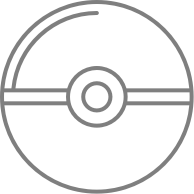
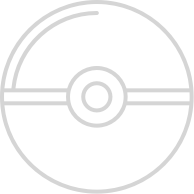
Colour adjustments (#6)

Changed region(s): [[0.0, 0.0, 1.0, 1.0], [0.4021, 0.4021, 0.5876, 0.5876]]

diff --git a/components/molecules/typebox.js b/components/molecules/typebox.js
@@ -5,32 +5,32 @@ function TypeBox({type, optText}) {
     // console.log(type, optText)
     switch(type) {
         case "normal":
-            return ( optText === undefined ? <PokemonTypeBox type={type} backgroundColor={"bg-zinc-300"} />
-                : <PokemonAbilityBox type={type} optText={optText} backgroundColor={"bg-zinc-300"} />)
+            return ( optText === undefined ? <PokemonTypeBox type={type} backgroundColor={"bg-slate-400"} />
+                : <PokemonAbilityBox type={type} optText={optText} backgroundColor={"bg-slate-400"} />)
         case "fire":
             return ( optText === undefined ? <PokemonTypeBox type={type} backgroundColor={"bg-orange-500"} />
                 : <PokemonAbilityBox type={type} optText={optText} backgroundColor={"bg-orange-500"} />)
         case "water":
-            return ( optText === undefined ? <PokemonTypeBox type={type} backgroundColor={"bg-blue-500"} />
-                : <PokemonAbilityBox type={type} optText={optText} backgroundColor={"bg-blue-500"} />)
+            return ( optText === undefined ? <PokemonTypeBox type={type} backgroundColor={"bg-blue-600"} />
+                : <PokemonAbilityBox type={type} optText={optText} backgroundColor={"bg-blue-600"} />)
         case "grass":
-            return ( optText === undefined ? <PokemonTypeBox type={type} backgroundColor={"bg-green-400"} />
-                : <PokemonAbilityBox type={type} optText={optText} backgroundColor={"bg-green-400"} />)
+            return ( optText === undefined ? <PokemonTypeBox type={type} backgroundColor={"bg-green-500"} />
+                : <PokemonAbilityBox type={type} optText={optText} backgroundColor={"bg-green-500"} />)
         case "electric":
-            return ( optText === undefined ? <PokemonTypeBox type={type} backgroundColor={"bg-amber-200"} />
-                : <PokemonAbilityBox type={type} optText={optText} backgroundColor={"bg-amber-200"} />)
+            return ( optText === undefined ? <PokemonTypeBox type={type} backgroundColor={"bg-amber-400"} />
+                : <PokemonAbilityBox type={type} optText={optText} backgroundColor={"bg-amber-400"} />)
         case "ice":
-            return ( optText === undefined ? <PokemonTypeBox type={type} backgroundColor={"bg-sky-100"} />
-                : <PokemonAbilityBox type={type} optText={optText} backgroundColor={"bg-sky-100"} />)
+            return ( optText === undefined ? <PokemonTypeBox type={type} backgroundColor={"bg-cyan-300"} />
+                : <PokemonAbilityBox type={type} optText={optText} backgroundColor={"bg-cyan-300"} />)
         case "fighting":
             return ( optText === undefined ? <PokemonTypeBox type={type} backgroundColor={"bg-red-600"} />
                 : <PokemonAbilityBox type={type} optText={optText} backgroundColor={"bg-red-600"} />)
         case "poison":
-            return ( optText === undefined ? <PokemonTypeBox type={type} backgroundColor={"bg-purple-700"} />
-                : <PokemonAbilityBox type={type} optText={optText} backgroundColor={"bg-purple-700"} />)
+            return ( optText === undefined ? <PokemonTypeBox type={type} backgroundColor={"bg-fuchsia-700"} />
+                : <PokemonAbilityBox type={type} optText={optText} backgroundColor={"bg-fuchsia-700"} />)
         case "ground":
-            return ( optText === undefined ? <PokemonTypeBox type={type} backgroundColor={"bg-orange-100"} />
-                : <PokemonAbilityBox type={type} optText={optText} backgroundColor={"bg-orange-100"} />)
+            return ( optText === undefined ? <PokemonTypeBox type={type} backgroundColor={"bg-amber-600"} />
+                : <PokemonAbilityBox type={type} optText={optText} backgroundColor={"bg-amber-600"} />)
         case "flying":
             return ( optText === undefined ? <PokemonTypeBox type={type} backgroundColor={"bg-blue-200"} />
                 : <PokemonAbilityBox type={type} optText={optText} backgroundColor={"bg-blue-200"} />)
@@ -38,26 +38,26 @@ function TypeBox({type, optText}) {
             return ( optText === undefined ? <PokemonTypeBox type={type} backgroundColor={"bg-pink-500"} />
                 : <PokemonAbilityBox type={type} optText={optText} backgroundColor={"bg-pink-500"} />)
         case "bug":
-            return ( optText === undefined ? <PokemonTypeBox type={type} backgroundColor={"bg-lime-400"} />
-                : <PokemonAbilityBox type={type} optText={optText} backgroundColor={"bg-lime-400"} />)
+            return ( optText === undefined ? <PokemonTypeBox type={type} backgroundColor={"bg-lime-500"} />
+                : <PokemonAbilityBox type={type} optText={optText} backgroundColor={"bg-lime-500"} />)
         case "rock":
-            return ( optText === undefined ? <PokemonTypeBox type={type} backgroundColor={"bg-orange-600"} />
-                : <PokemonAbilityBox type={type} optText={optText} backgroundColor={"bg-orange-600"} />)
+            return ( optText === undefined ? <PokemonTypeBox type={type} backgroundColor={"bg-amber-700"} />
+                : <PokemonAbilityBox type={type} optText={optText} backgroundColor={"bg-amber-700"} />)
         case "ghost":
-            return ( optText === undefined ? <PokemonTypeBox type={type} backgroundColor={"bg-purple-800"} />
-                : <PokemonAbilityBox type={type} optText={optText} backgroundColor={"bg-purple-800"} />)
+            return ( optText === undefined ? <PokemonTypeBox type={type} backgroundColor={"bg-purple-700"} />
+                : <PokemonAbilityBox type={type} optText={optText} backgroundColor={"bg-purple-700"} />)
         case "dark":
-            return ( optText === undefined ? <PokemonTypeBox type={type} backgroundColor={"bg-stone-500"} />
-                : <PokemonAbilityBox type={type} optText={optText} backgroundColor={"bg-stone-500"} />)
+            return ( optText === undefined ? <PokemonTypeBox type={type} backgroundColor={"bg-neutral-700"} />
+                : <PokemonAbilityBox type={type} optText={optText} backgroundColor={"bg-neutral-700"} />)
         case "dragon":
-            return ( optText === undefined ? <PokemonTypeBox type={type} backgroundColor={"bg-purple-600"} />
-                : <PokemonAbilityBox type={type} optText={optText} backgroundColor={"bg-purple-600"} />)
+            return ( optText === undefined ? <PokemonTypeBox type={type} backgroundColor={"bg-violet-600"} />
+                : <PokemonAbilityBox type={type} optText={optText} backgroundColor={"bg-violet-600"} />)
         case "steel":
-            return ( optText === undefined ? <PokemonTypeBox type={type} backgroundColor={"bg-zinc-300"} />
-                : <PokemonAbilityBox type={type} optText={optText} backgroundColor={"bg-zinc-300"} />)
+            return ( optText === undefined ? <PokemonTypeBox type={type} backgroundColor={"bg-zinc-400"} />
+                : <PokemonAbilityBox type={type} optText={optText} backgroundColor={"bg-zinc-400"} />)
         case "fairy":
-            return ( optText === undefined ? <PokemonTypeBox type={type} backgroundColor={"bg-pink-300"} />
-                : <PokemonAbilityBox type={type} optText={optText} backgroundColor={"bg-pink-300"} />)
+            return ( optText === undefined ? <PokemonTypeBox type={type} backgroundColor={"bg-pink-400"} />
+                : <PokemonAbilityBox type={type} optText={optText} backgroundColor={"bg-pink-400"} />)
     }
 }
 

diff --git a/components/organisms/pokemons.js b/components/organisms/pokemons.js
@@ -5,6 +5,7 @@ import TypeBox from "../molecules/typebox";
 import PokemonModal from "../molecules/pokemonmodal";
 import React from "react";
 import Image from 'next/image';
+import getPokemonBackground from "../atoms/pokemonBackground";
 
 // pokemonTypes is in the form: 
 //     object : {
@@ -36,47 +37,6 @@ function getTypeBoxes(typesArray) {
     )
 }
 
-function getTypeBackground(pokemonMainType) {
-    switch(pokemonMainType) {
-        case "normal":
-            return "bg-zinc-400";
-        case "fire":
-            return "bg-orange-500";
-        case "water":
-            return "bg-blue-600";
-        case "grass":
-            return "bg-green-500";
-        case "electric":
-            return "bg-yellow-400";
-        case "ice":
-            return "bg-cyan-400";
-        case "fighting":
-            return "bg-red-500";
-        case "poison":
-            return "bg-purple-500";
-        case "ground":
-            return "bg-orange-400";
-        case "flying":
-            return "bg-violet-400";
-        case "psychic":
-            return "bg-pink-500";
-        case "bug":
-            return "bg-lime-500";
-        case "rock":
-            return "bg-orange-500";
-        case "ghost":
-            return "bg-purple-600";
-        case "dark":
-            return "bg-gray-700";
-        case "dragon":
-            return "bg-violet-600";
-        case "steel":
-            return "bg-zinc-600";
-        case "fairy":
-            return "bg-pink-400";
-    }
-}
-
 const DisplayPokemonGrid = (pokemonArray) => {
     const [popupState, setPopupState] = useState(false);
     const [pokemonData, setPokemonData] = useState(null);
@@ -100,7 +60,7 @@ const DisplayPokemonGrid = (pokemonArray) => {
                 return (
                     <button key={pokemon.id}
                     disabled={popupState}
-                    className={"text-white font-bold rounded-2xl p-4 flex w-full h-min pokemon-card hover:brightness-110 " + getTypeBackground(pokemonTypes[0])}
+                    className={"text-white font-bold rounded-2xl p-4 flex w-full h-min pokemon-card hover:brightness-110 " + getPokemonBackground(pokemonTypes[0])}
                     onClick={() => {setPopupState(true), setPokemonData(pokemon)}}>
                         {/* <div className="m-1 grid shrink-0 grow flex-auto w-auto"> */}
                             <div className="shrink-0 grow flex justify-start flex-col w-24 h-min">

diff --git a/components/molecules/pokemonmodal.js b/components/molecules/pokemonmodal.js
@@ -2,6 +2,7 @@ import React from "react";
 import TypeBox from "./typebox";
 import StatMeter from "../atoms/pokemonStatMeter";
 import Image from 'next/image';
+import getPokemonBackground from "../atoms/pokemonBackground";
 
 // pokemonTypes is in the form: 
 //     object : {
@@ -70,9 +71,11 @@ function PokemonModal({onClose, visible, pokemon}) {
     // console.log(onClose, visible, pokemon)
     let pokemonTypes = getTypes(pokemon.types)
     let pokemonAbilities = getAbilities(pokemon)
+    
     const handleOnClose = (event) => {
         if (event.target.id === "background")
         {
+            document.body.style.overflow = 'auto';
             onClose();
         }
     }
@@ -81,11 +84,13 @@ function PokemonModal({onClose, visible, pokemon}) {
         return null;
     }
 
+    document.body.style.overflow = 'hidden';
+
     return (
         <div id="background" onClick={handleOnClose} className="grow flex absolute justify-center items-center inset-0 bg-black bg-opacity-50 backdrop-blur-sm h-full w-full z-10">
 
             <div className="flex grow shrink-0 pokemon-details">
-                <div className="w-1/2 bg-blue-300 flex items-center flex-col py-10 px-12 shrink-0 min-w-44 grow rounded-l-3xl">
+                <div className={`w-1/2  flex items-center flex-col py-10 px-12 shrink-0 min-w-44 grow rounded-l-3xl ${getPokemonBackground(pokemonTypes[0])}`}>
                     <p className="text-white text-center text-shadow-black capitalize text-2xl font-extrabold">{pokemon.name}</p>
                     <Image src={pokemon.sprites.front_default} width={96} height={96} className="w-24 h-24 flex-none shrink-0" />
                     <p className="text-white text-center text-shadow-black mb-2 font-bold">Type</p>

diff --git a/components/atoms/pokemonBackground.js b/components/atoms/pokemonBackground.js
@@ -1,0 +1,42 @@
+function getPokemonBackground(pokemonMainType) {
+    switch(pokemonMainType) {
+        case "normal":
+            return "bg-slate-300";
+        case "fire":
+            return "bg-orange-400";
+        case "water":
+            return "bg-blue-400";
+        case "grass":
+            return "bg-green-400";
+        case "electric":
+            return "bg-yellow-300";
+        case "ice":
+            return "bg-sky-200";
+        case "fighting":
+            return "bg-red-400";
+        case "poison":
+            return "bg-fuchsia-400";
+        case "ground":
+            return "bg-amber-400";
+        case "flying":
+            return "bg-violet-400";
+        case "psychic":
+            return "bg-pink-400";
+        case "bug":
+            return "bg-lime-400";
+        case "rock":
+            return "bg-amber-500";
+        case "ghost":
+            return "bg-purple-400";
+        case "dark":
+            return "bg-neutral-500";
+        case "dragon":
+            return "bg-violet-400";
+        case "steel":
+            return "bg-zinc-300";
+        case "fairy":
+            return "bg-pink-300";
+    }
+}
+
+export default getPokemonBackground;

diff --git a/components/atoms/pokemonAbilityBox.js b/components/atoms/pokemonAbilityBox.js
@@ -1,7 +1,7 @@
 function PokemonAbilityBox({type, optText, backgroundColor}) {
     return (
         <div className={"rounded-md shadow-md grow flex w-auto flex-initial p-1 " + backgroundColor}>
-            <p className="text-white text-sm text-center self-center grow shrink-0 w-max text-shadow-black font-mono capitalize">{optText ? optText : type}</p>
+            <p className="text-white text-sm text-center self-center grow shrink-0 w-max text-shadow-grey font-mono capitalize">{optText ? optText : type}</p>
         </div>
     )
 }

diff --git a/components/atoms/pokemonTypeBox.js b/components/atoms/pokemonTypeBox.js
@@ -1,7 +1,7 @@
 function PokemonTypeBox({type, backgroundColor}) {
     return (
         <div className={"rounded-md shadow-md grow flex flex-initial p-1 " + backgroundColor}>
-            <p className="text-white text-sm self-center grow shrink-0 w-min text-shadow-black font-mono capitalize">{type}</p>
+            <p className="text-white text-sm self-center grow shrink-0 w-min text-shadow-grey font-mono capitalize">{type}</p>
         </div>
     )
 }
